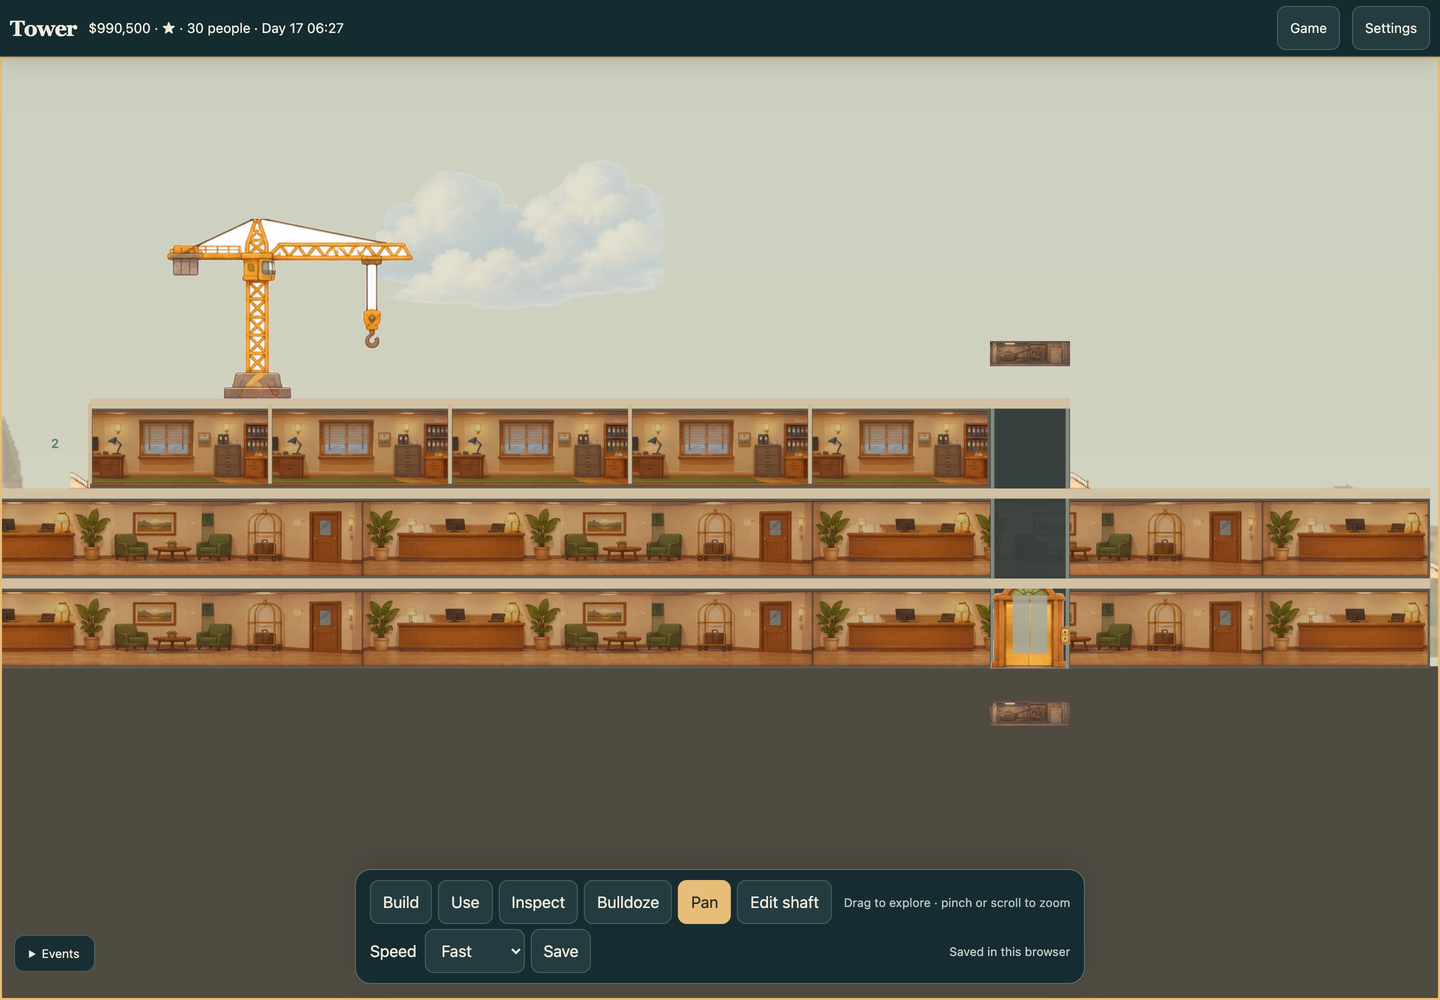
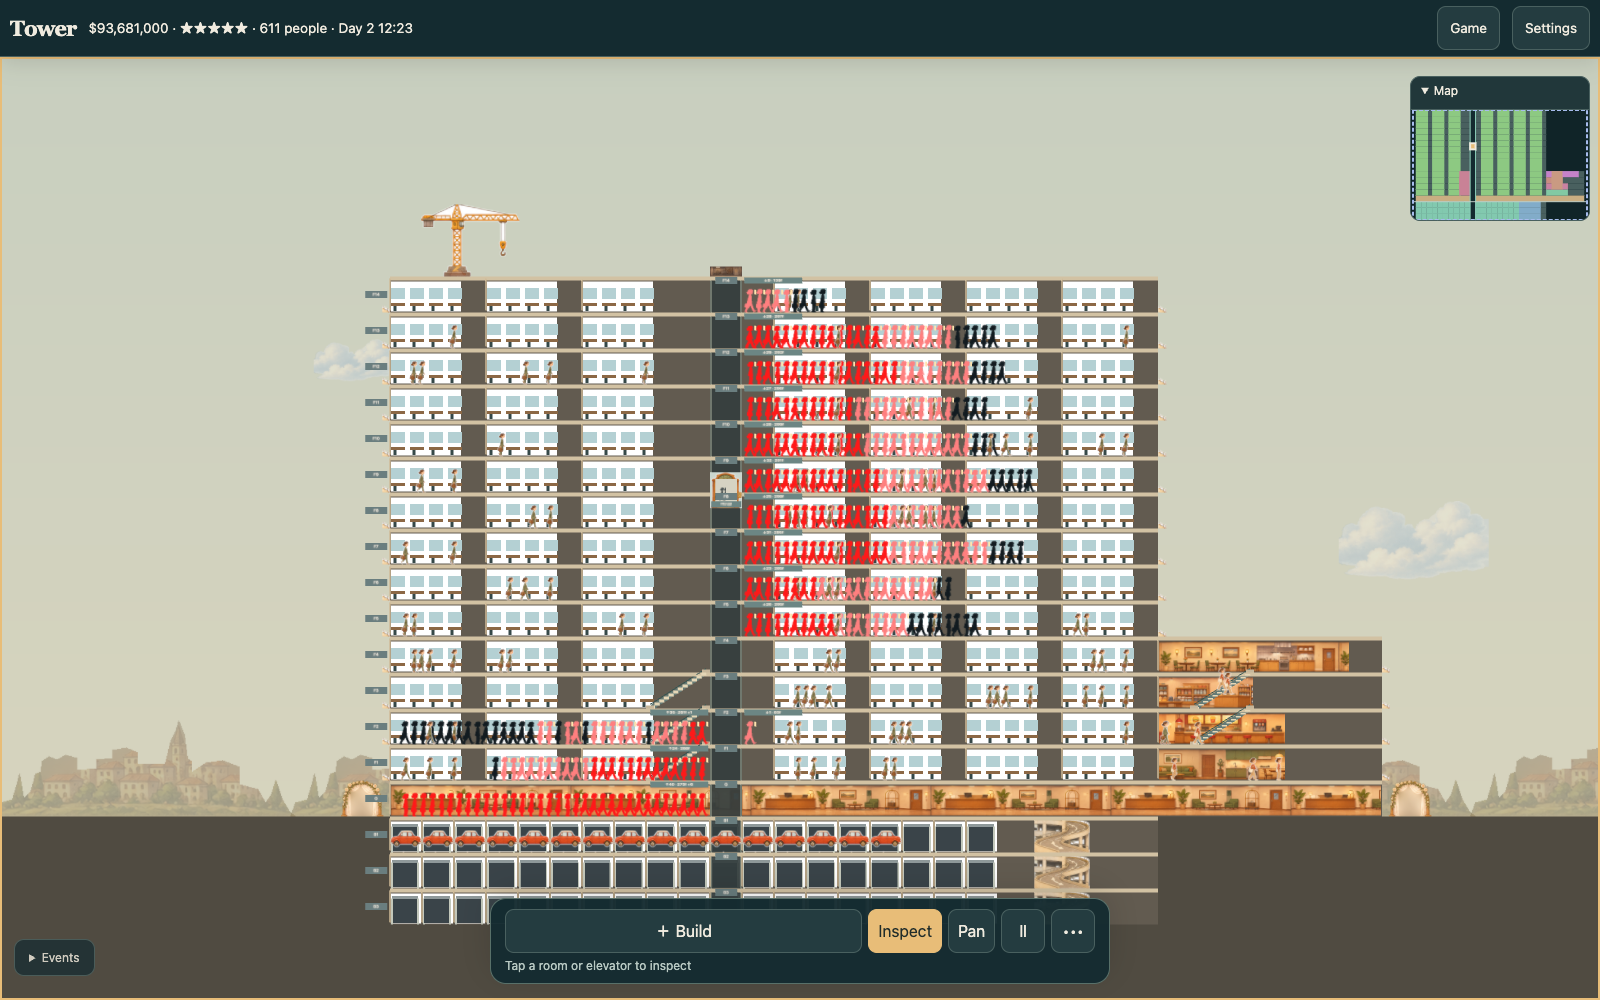
Document Three release verification and refresh genuine gameplay screenshots

diff --git a/docs/three-renderer.md b/docs/three-renderer.md
@@ -31,19 +31,40 @@ Production distribution combines this default game with the landing page in the 
 
 Actor root causes, source registration, queue semantics and visual cases are documented in [three-actors.md](three-actors.md).
 
-## Previous migration evidence
+## Validation evidence
 
-The integrated browser check passed 21 assertions covering campaign/sandbox tool
-availability, empty-tower save/reload, full-span preview, placement, rent, all four style changes, anchored
-zoom, Three PNG capture, financial panels, IndexedDB saving and a DPR-3 phone
-viewport. Manual browser passes also exercised elevator schedules/cars/Simulate,
-names/finding, tuning, fire and bomb decisions, star notice acknowledgement,
-Web Audio signal/loop start-stop/mute, original-format export/import and offline
-reload plus style switching. Offline assets are precached from a generated
-manifest. A mobile viewport emulation is evidence of layout, not a physical
-iPhone performance test.
+The browser smoke passed 21 assertions: sandbox tools, empty and nonempty saves,
+non-mutating preview, planned placement, inspection/rent, all four style swaps,
+anchored zoom, PNG capture, finance, IndexedDB sync, a 390×844 DPR-3 viewport,
+offline restore and full-resolution style switching.
 
-The native simulation suite has four existing failures in the 24-shaft fixture;
-the same four failures reproduce using the untouched base `8026387` tower source.
-It also needs `-include stddef.h` with Apple Clang because its existing test file
-uses `offsetof` without that include. No new failure was observed in that suite.
+`tests/test_three.c` passed the existing office construction/move-in/overnight/
+move-out/rent rescue/re-let lifecycle and 18 lift cases: standard and express,
+1/20/100 floors, empty/half/full. Samples stay within the route, accelerate and
+brake, reach the exact stop, then open doors and unboard. A separate regression
+asserts that a fresh call cannot change the physical position mid-segment.
+
+Independent browser verification used a seeded synthetic tower and real saved
+simulation states. Occupied-middle/edge drag, reversed endpoints, unchanged
+Cancel and exact-price Build were observed. A limited $85,000 budget selected only two $40,000 offices and retained $5,000; campaign locks matched native catalog availability. A stored $280,000 plan was rejected without construction or further charges after a separate legal $80,000 car purchase left $220,000. The same office ID demonstrated
+state 7 vacancy → state 3 re-let; state 5 overnight retained its lease with zero
+workers. Completed construction's `-1` sentinel is treated as complete. The
+mature scene includes real mixed queue wait bands, full cabins, parking bays,
+parked cars, stairs/escalators and the shaft/cabin minimap. Four live styles were
+captured at the same paused actor IDs and zoom.
+
+![Phone layout in the same synthetic tower](../screenshots/three-mobile.png)
+
+Screenshots show the working browser game at 1600×1000 and 390×844. They are
+synthetic gameplay, not generated illustrations. The source runtime is
+`e5cef55b5f29f2914d4c01cdeaa686144d30ad34`; subsequent documentation/image changes
+do not alter its runtime sources. Native saves retain their layout and the
+browser retains `/persist` IDBFS and `ct-slot`, `ct-style`, `ct-zoom`,
+`ct-uiscale`. Combined landing/game service-worker migration is verified by the
+site delivery owner before publication.
+
+A mobile viewport emulation establishes layout, not physical iPhone performance.
+The simulation has no authoritative non-elevator service-queue location/clock;
+no such queue is invented from room population or destination state. Original
+source paintings still limit fine pose anatomy. This scoped check does not
+claim a full simulation audit.

diff --git a/docs/three-promotion-contract.md b/docs/three-promotion-contract.md
@@ -30,7 +30,7 @@ Controlled transition demonstration for the implementation owner, using the port
 2. In a targeted C fixture, use default tuning, `star_rating=1`, `rent_class=1`, `pool_stress_total=200`, `pool_stress_trips=1`, no noisy neighbor and no content same-type floor-mate to pair. The native metric is 200, above the 150 stress bar, so the judge returns category 0. Invoke `game_judge_daily` followed by the existing third-day `game_stressed_moveout` boundary. Assert state 7, capacity/population zero and demand disarmed. Do not implement a new eviction switch or use an original executable.
 3. Change the rate through existing `game_set_rent_class` / browser `ct_ui_action("rent", 3, "")` for the selected office. Class 3 forces the fixture metric to 0, yielding category 2. Demand re-arms while state remains 7. Advance normal mover travel on a reachable route, then `game_relet_arrivals`: state 3, capacity initialized, stress reset and the existing re-let payment retained. Separately retain the native content-neighbor pairing case; it can re-arm immediately at move-out.
 
-A focused source fixture covers construction/move-in, overnight closure, the controlled stressed move-out, rent-control rescue and real mover re-let. It has been syntax-checked; its runtime execution belongs to integration. No new revenue, automatic lease probability, tenancy timer or forced move-in action is authorized.
+A focused source fixture covers construction/move-in, overnight closure, the controlled stressed move-out, rent-control rescue and real mover re-let. The focused runtime fixture passed construction, closure, abandonment and native re-let. No new revenue, automatic lease probability, tenancy timer or forced move-in action is authorized.
 
 ## One forgiving construction plan
 
